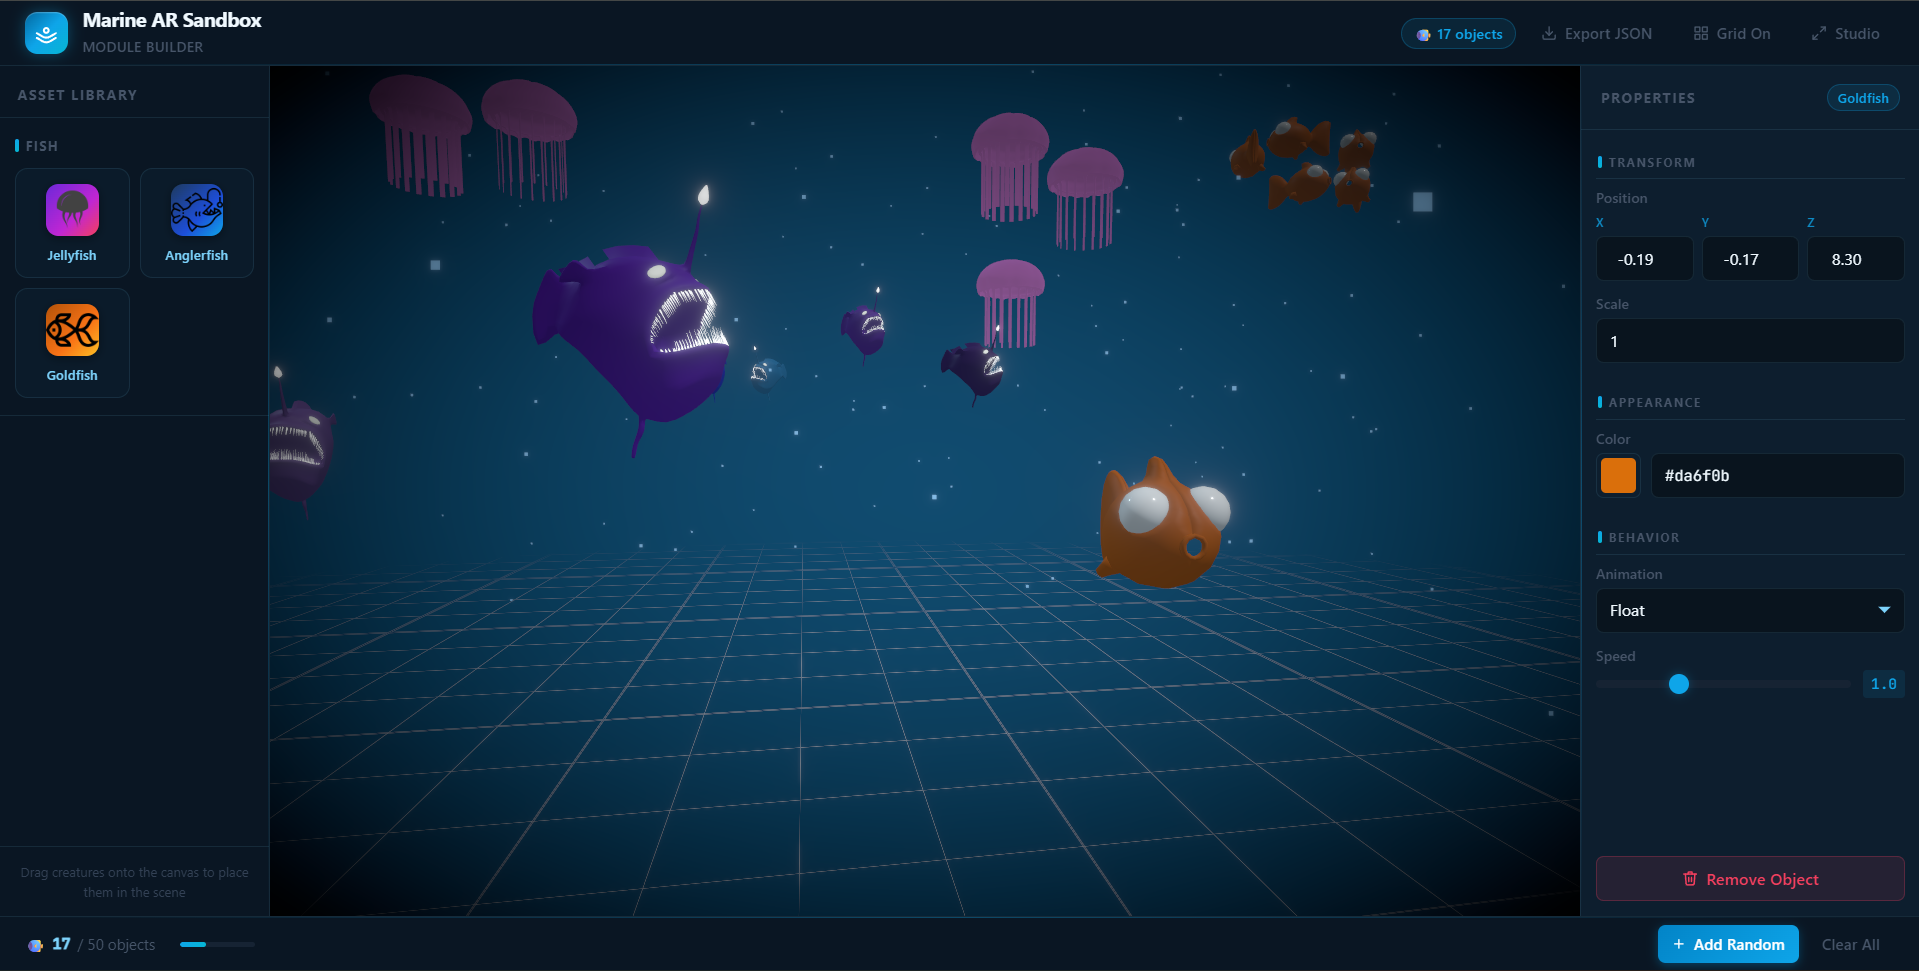
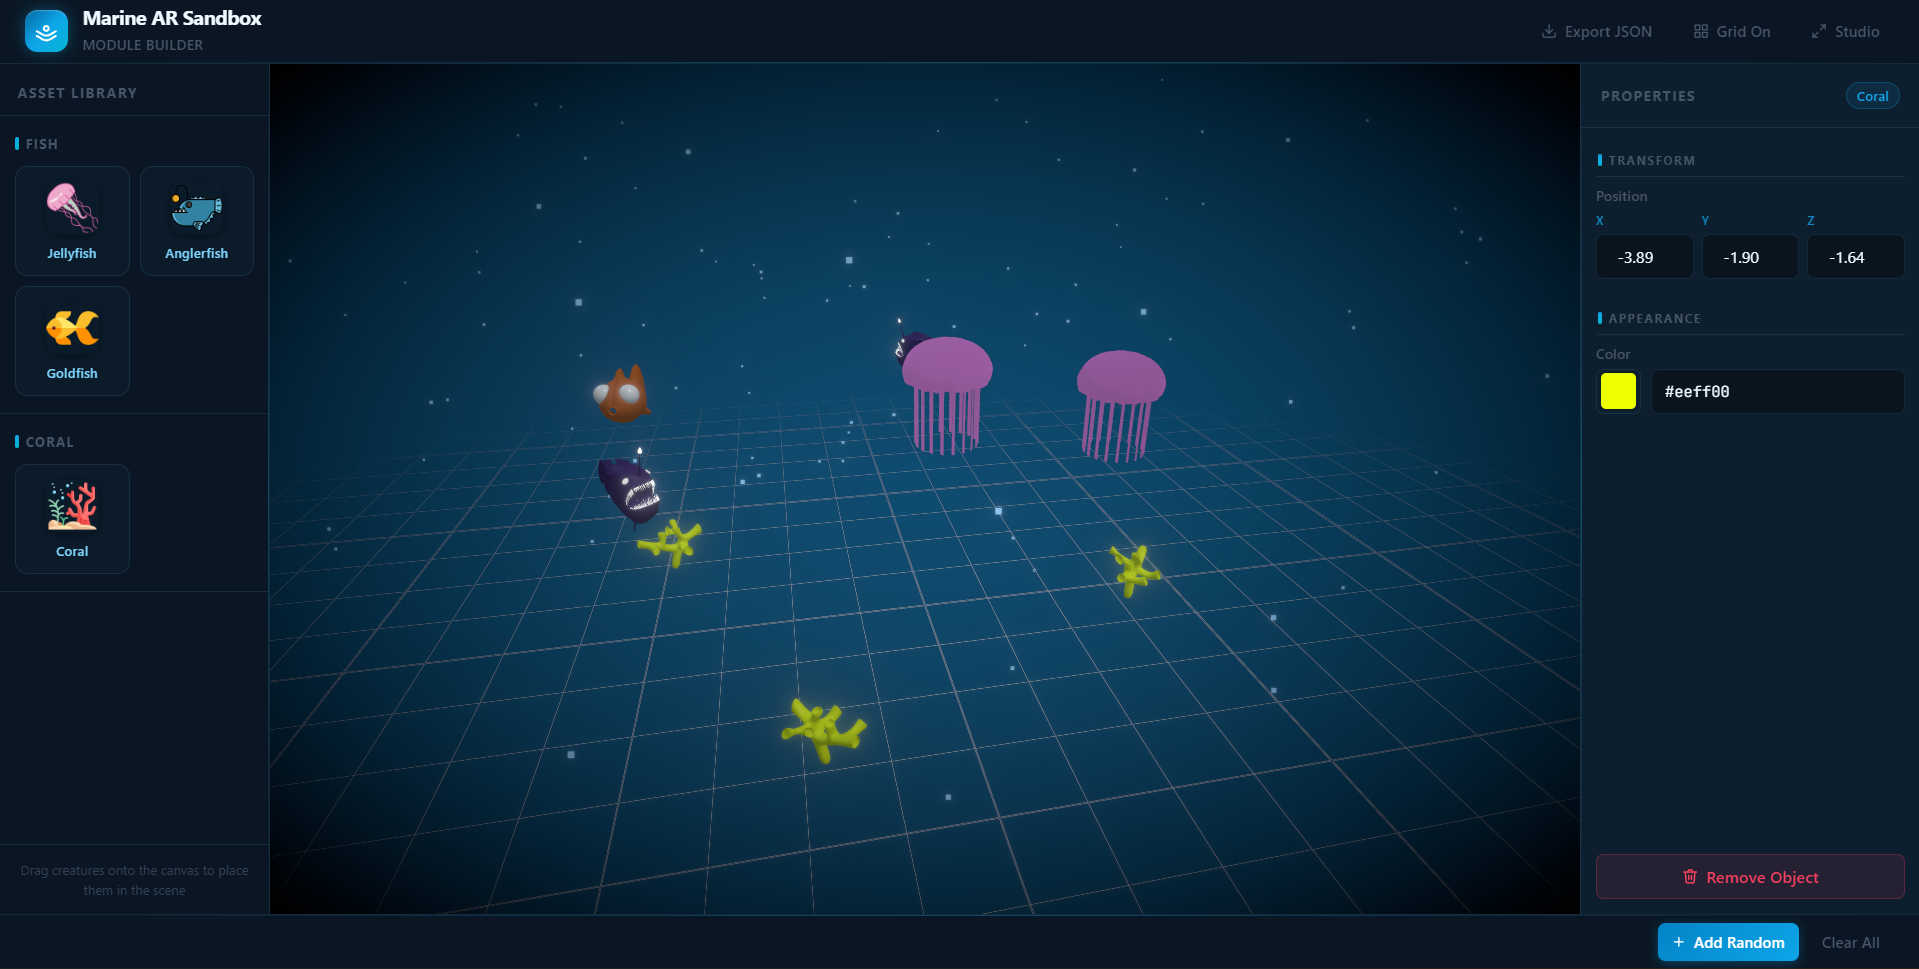
updated readme

diff --git a/README.md b/README.md
@@ -6,17 +6,17 @@ A React + Three.js web-based toolkit for composing marine AR environments. Users
 
 ## Features
 
-- **Drag-and-Drop 3D Placement**: Easily drop bioluminescent Jellyfish, Anglerfish, or Goldfish from the Sidebar right into the scene.
-- **Real-Time Property Editing**: Click on any fish in the scene to open the Properties Panel.
-  - **Transform**: Edit X, Y, Z positions and overall scale.
-  - **Appearance**: Customize the base color of the fish with a live color picker. Dark ocean contrast is handled automatically.
-  - **Behavior**: Choose from pre-programmed animations like `Float`, `Swim Vertical`, or `Sway`, and adjust the speed multiplier.
-- **JSON Export**: Click "Export JSON" in the top right to download a clean, structured representation of your scene's state (positions, rotations, colors, scales, and active behaviors) for use in other parts of the pipeline or external AR engines.
-- **Premium Dark Ocean UI**: A custom, modern glassmorphism design system built from scratch with CSS variables ensures the controls feel immersive and native to the underwater scene. Features live metrics, dynamic empty states, and animated hover interactions.
+- **Drag-and-Drop 3D Placement**: Easily drop bioluminescent Jellyfish, Anglerfish, Goldfish, or Coral from the Sidebar right into the scene.
+- **Real-Time Property Editing**: Click on any object in the scene to open the Properties Panel.
+  - **Transform**: Edit X, Y, Z positions.
+  - **Appearance**: Customize the base color with a live color picker. Dark ocean contrast is handled automatically.
+- **Default Float Animation**: All objects have a gentle floating animation by default.
+- **JSON Export**: Click "Export JSON" in the top right to download your scene's state (positions, rotations, colors, and behaviors).
+- **Premium Dark Ocean UI**: A custom, modern glassmorphism design system built from scratch with CSS variables ensures the controls feel immersive and native to the underwater scene.
 
 ## How to Run
 
-1. Make sure Node.js (and `pnpm`/`npm`/`yarn`) is installed.
+1. Make sure Node.js is installed.
 2. Install dependencies:
    ```bash
    pnpm install
@@ -29,8 +29,8 @@ A React + Three.js web-based toolkit for composing marine AR environments. Users
 
 ## Tech Stack
 
-- **React 18** for component architecture and UI state.
+- **React 19** for component architecture and UI state.
 - **Three.js** + **React Three Fiber** (`@react-three/fiber`) for declarative 3D rendering.
 - **Drei** (`@react-three/drei`) for 3D helpers, lighting, and GLTF model loading.
-- **Zustand** for lightweight, decentralized global state management (handles the scene objects array, selected IDs, and UI toggles without prop-drilling).
-- **Vanilla CSS** (`index.css`) for the complete custom design system (no Tailwind required).
+- **Zustand** for lightweight, decentralized global state management.
+- **Vanilla CSS** (`index.css`) for the complete custom design system.
